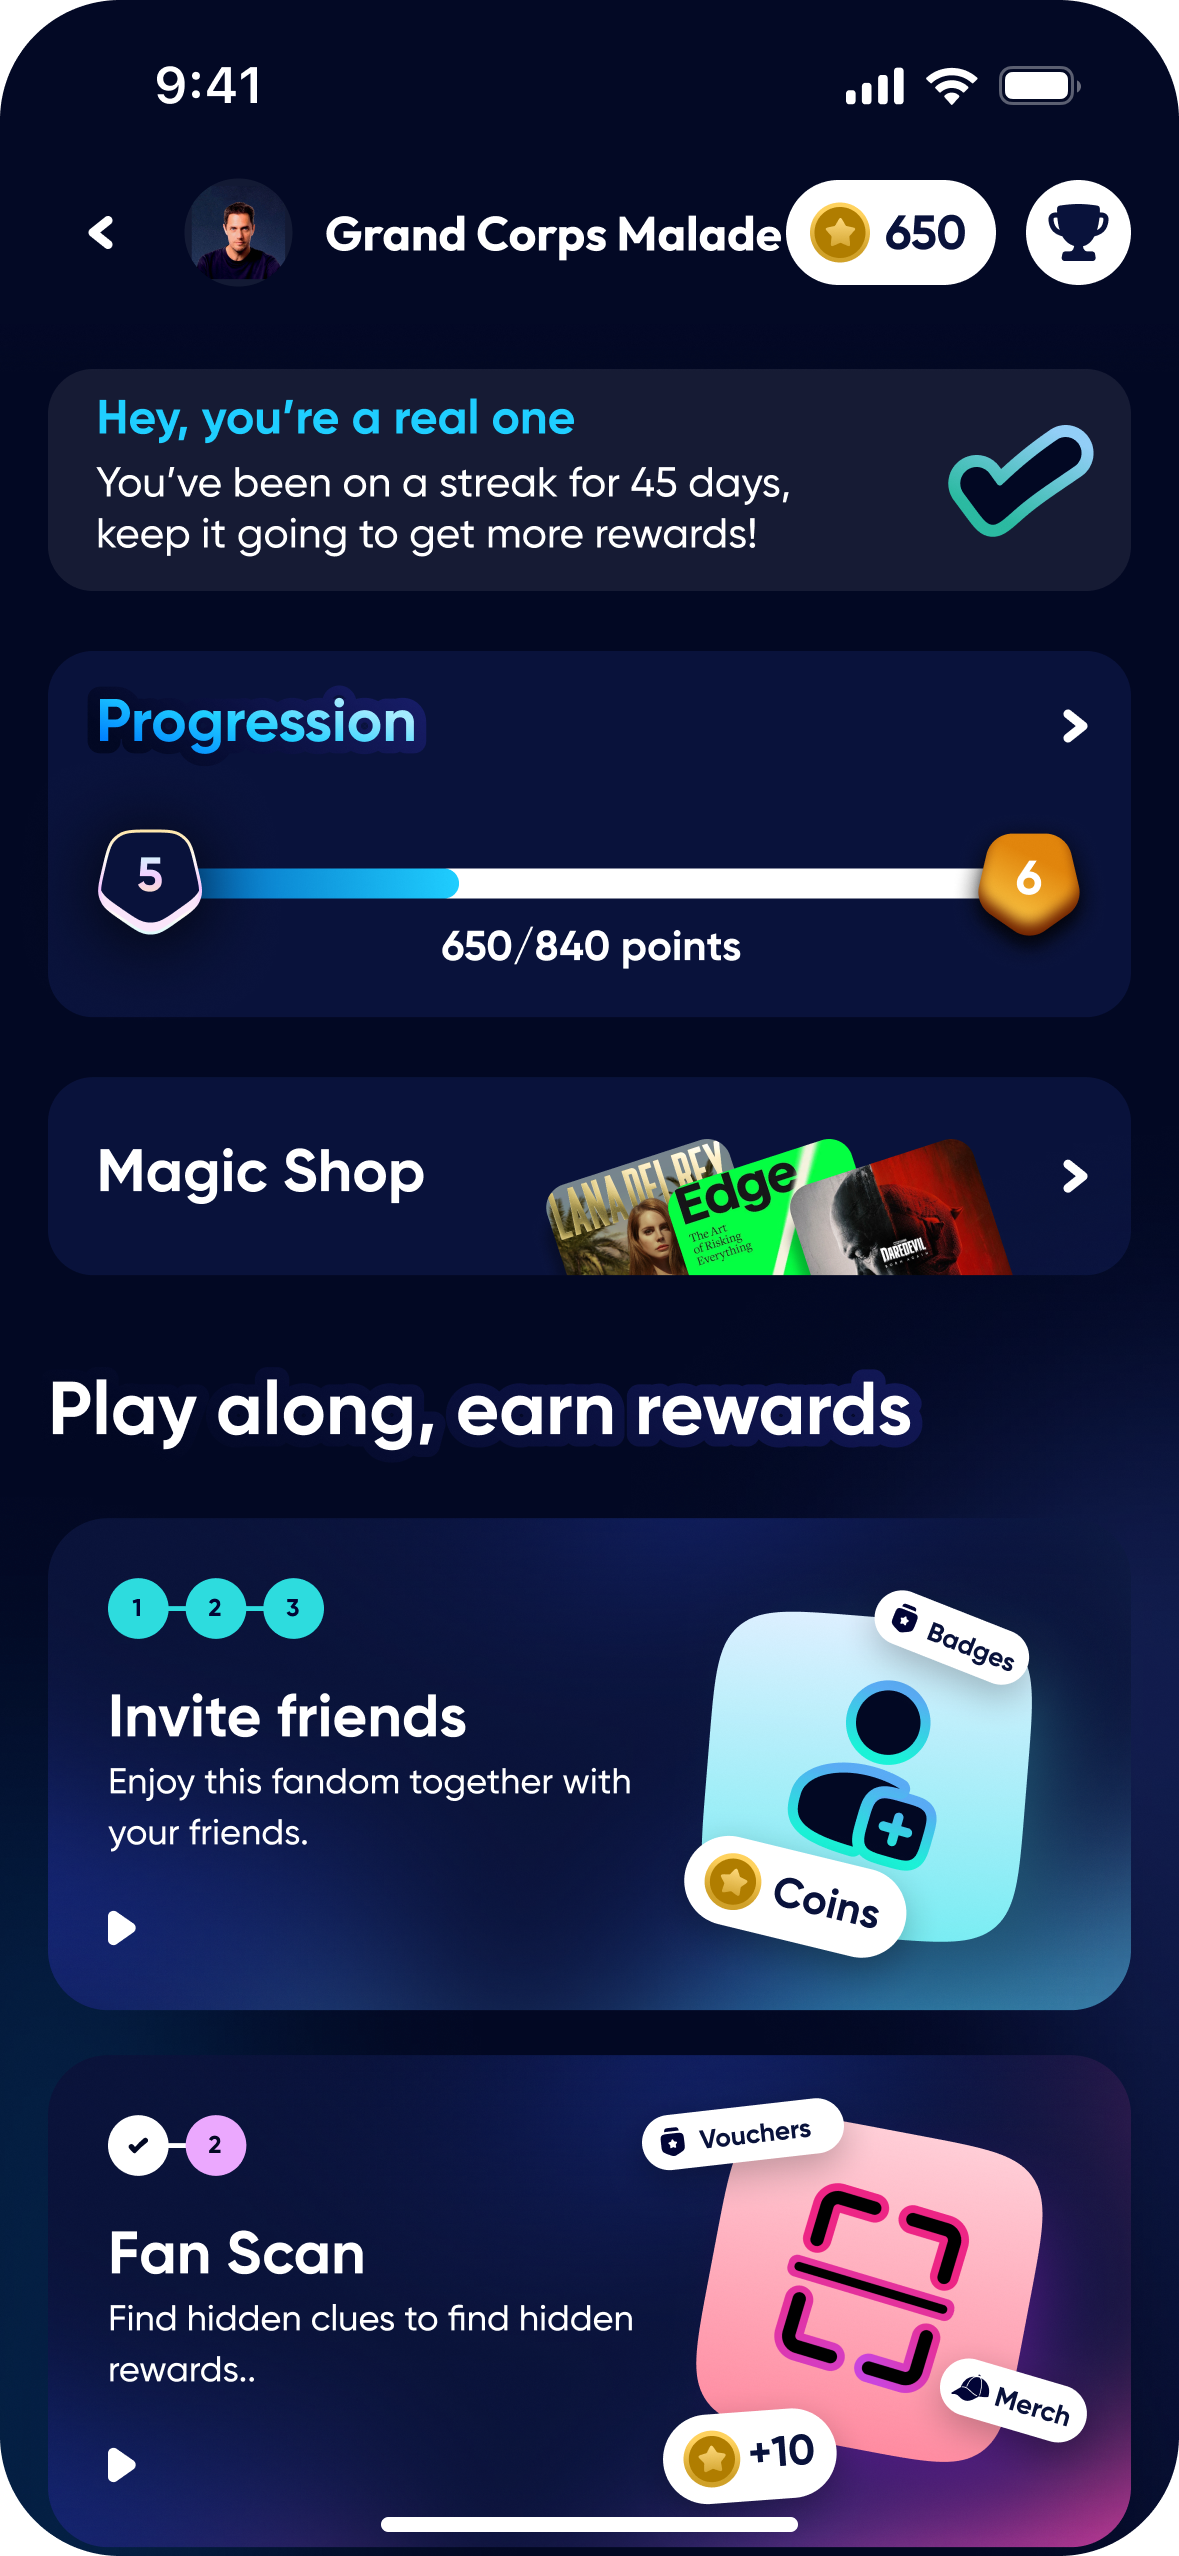
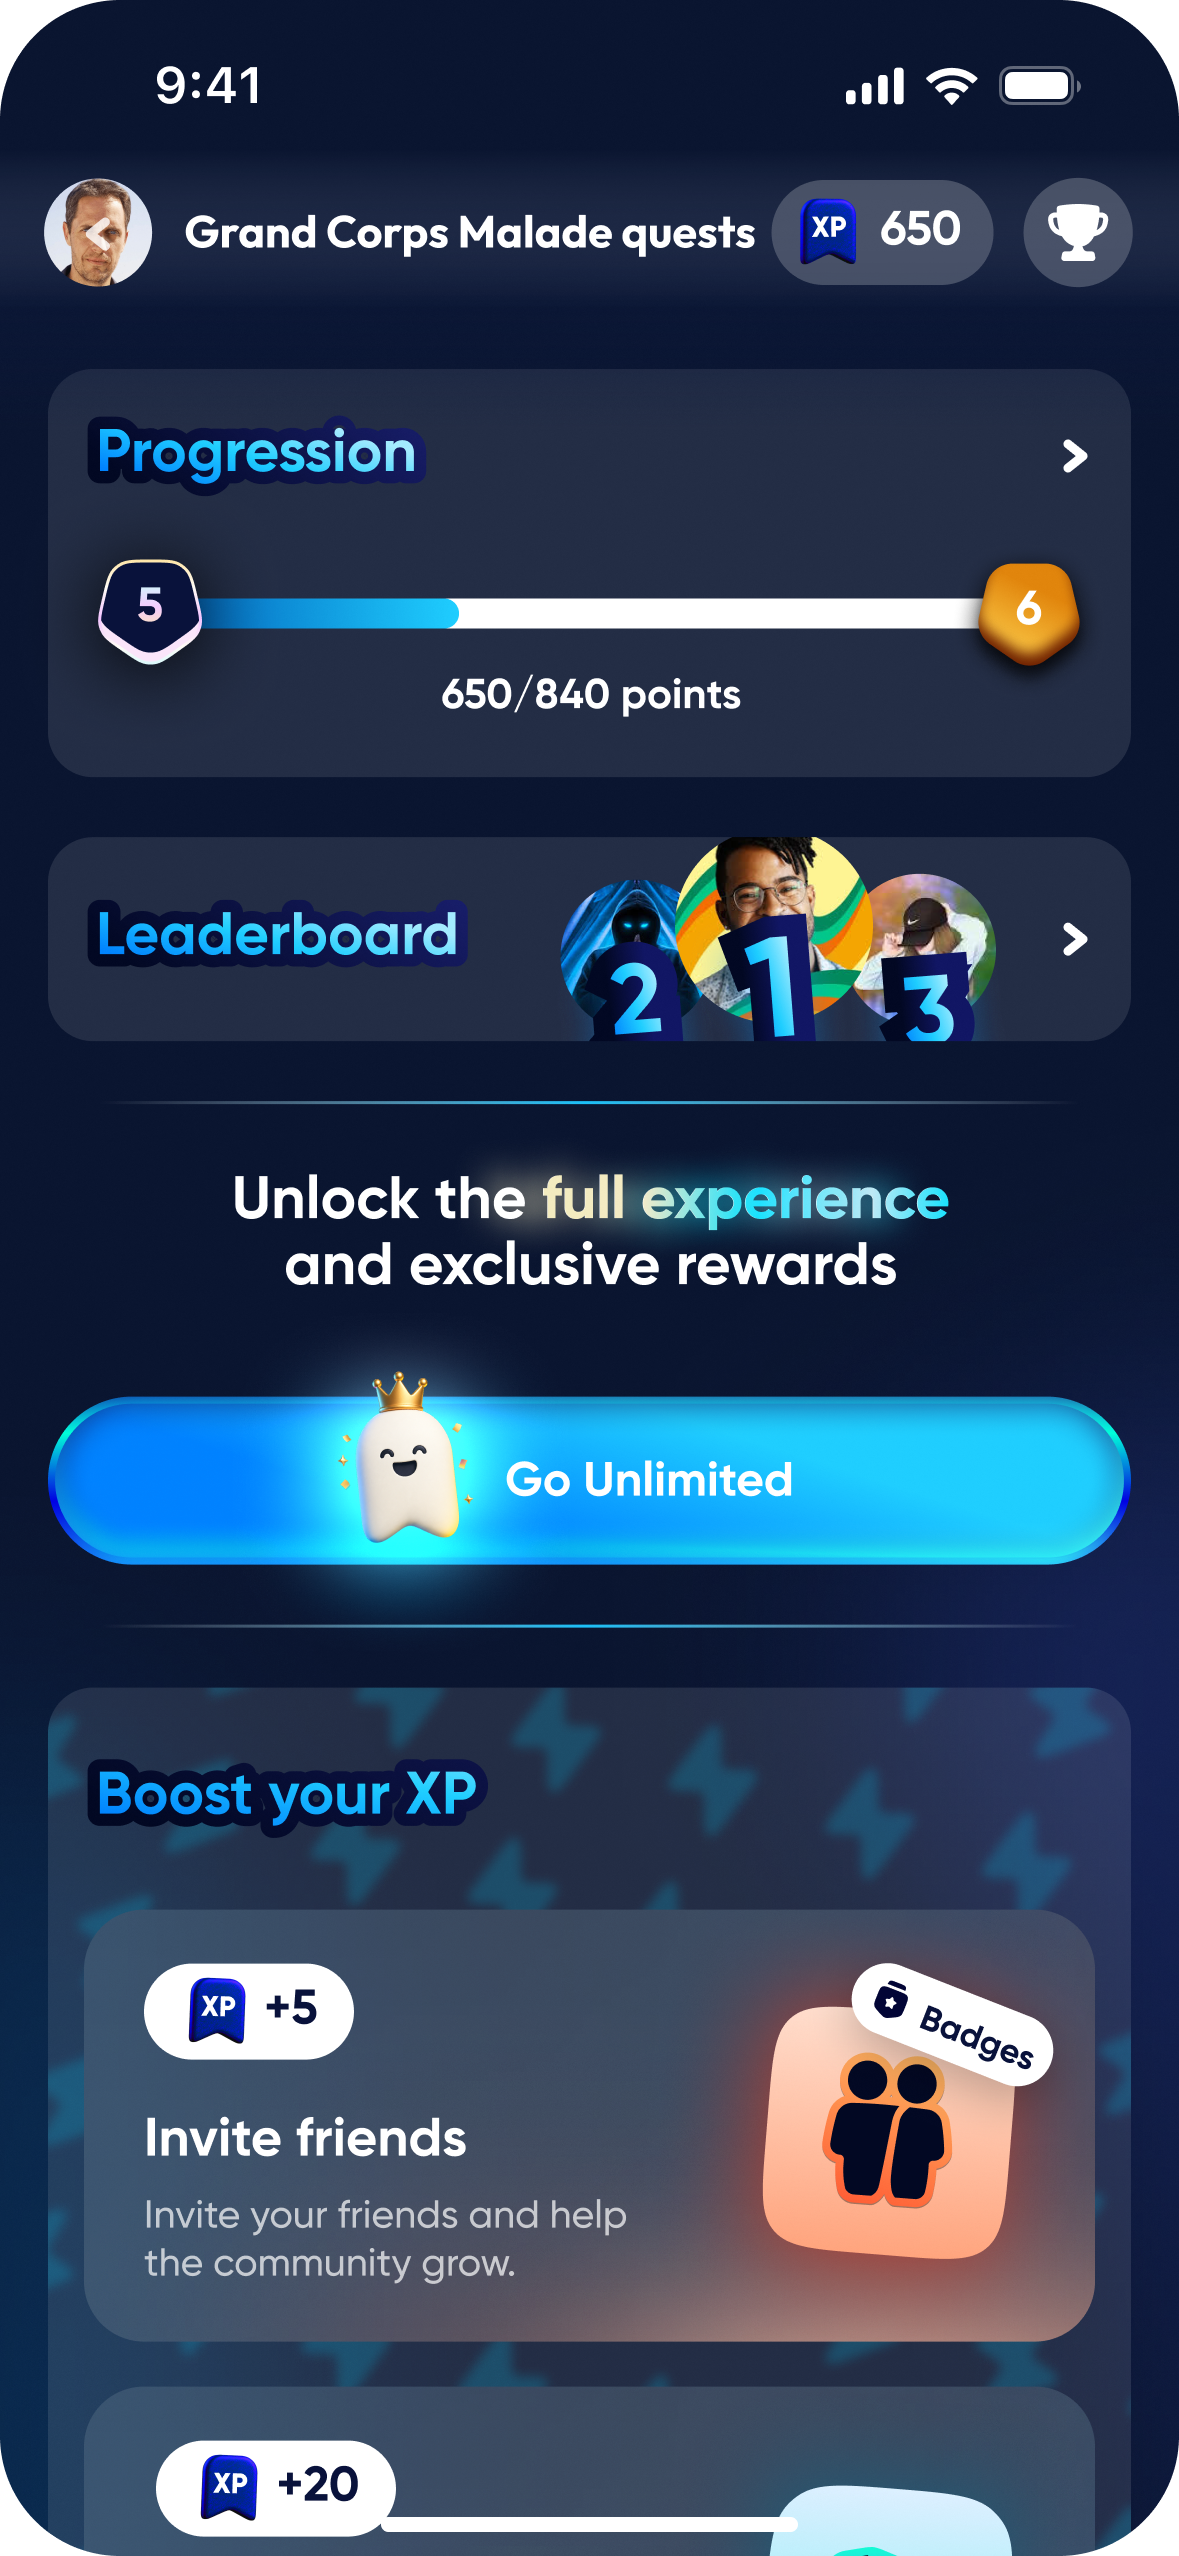
Rebuild the four app frames on the Nov 2026 designs
Ports the Julien Doré build across: Fanverse, Quests, Live chat and Magic
store are now clones of the current app, not the older set. Magic Pulse is
unchanged — it has no Nov 2026 equivalent.

- Store shows his four real products from boutique.grandcorpsmalade.fr at
  their actual prices (pack collector, double vinyle, CD, affiche); the
  base design's other rights-holders are gone.
- Fixed the three defects that surface on every artist: the verified badge
  drifting off the name, the CTA label sitting off-centre, and the store
  rendering as an inset bottom sheet.
- Backgrounds unified on the deck navy — the quests screen shipped on pure
  black and read as a different app in the s5 row.
- Long name handled: the quests title and chat tabs now fit without
  colliding with the XP pill.
- Live card re-cropped from the hero; the earlier crop cut above his eyes.

Source crops, merch and album covers kept under Assets/ so the next rebuild
doesn't have to re-source them.

diff --git a/Assets/Merch/SOURCES.md b/Assets/Merch/SOURCES.md
@@ -1,0 +1,15 @@
+# Shop frame product images — Grand Corps Malade
+
+Downloaded 2026-10-31 from **boutique.grandcorpsmalade.fr**, his official store
+(Shopify; `/products.json?limit=60`). Same four products the earlier frame build
+used — pack collector, double vinyle, CD, affiche — re-sourced at full size so
+the files live on disk rather than only inside Figma.
+
+| File | Product | Store price | Deck coin price |
+| --- | --- | --- | --- |
+| `01-pack-vinyle-cd-affiche.png` | Pack double vinyle + CD + affiche + carnet | €59.99 | 60,000 |
+| `02-voir-la-mer-vinyle.png` | Voir la mer — double vinyle couleur | €26.99 | 27,000 |
+| `03-voir-la-mer-cd.png` | Voir la mer — CD | €14.99 | 15,000 |
+| `04-voir-la-mer-affiche.png` | Voir la mer — affiche | €10.00 | 10,000 |
+
+All four were available at time of download.
